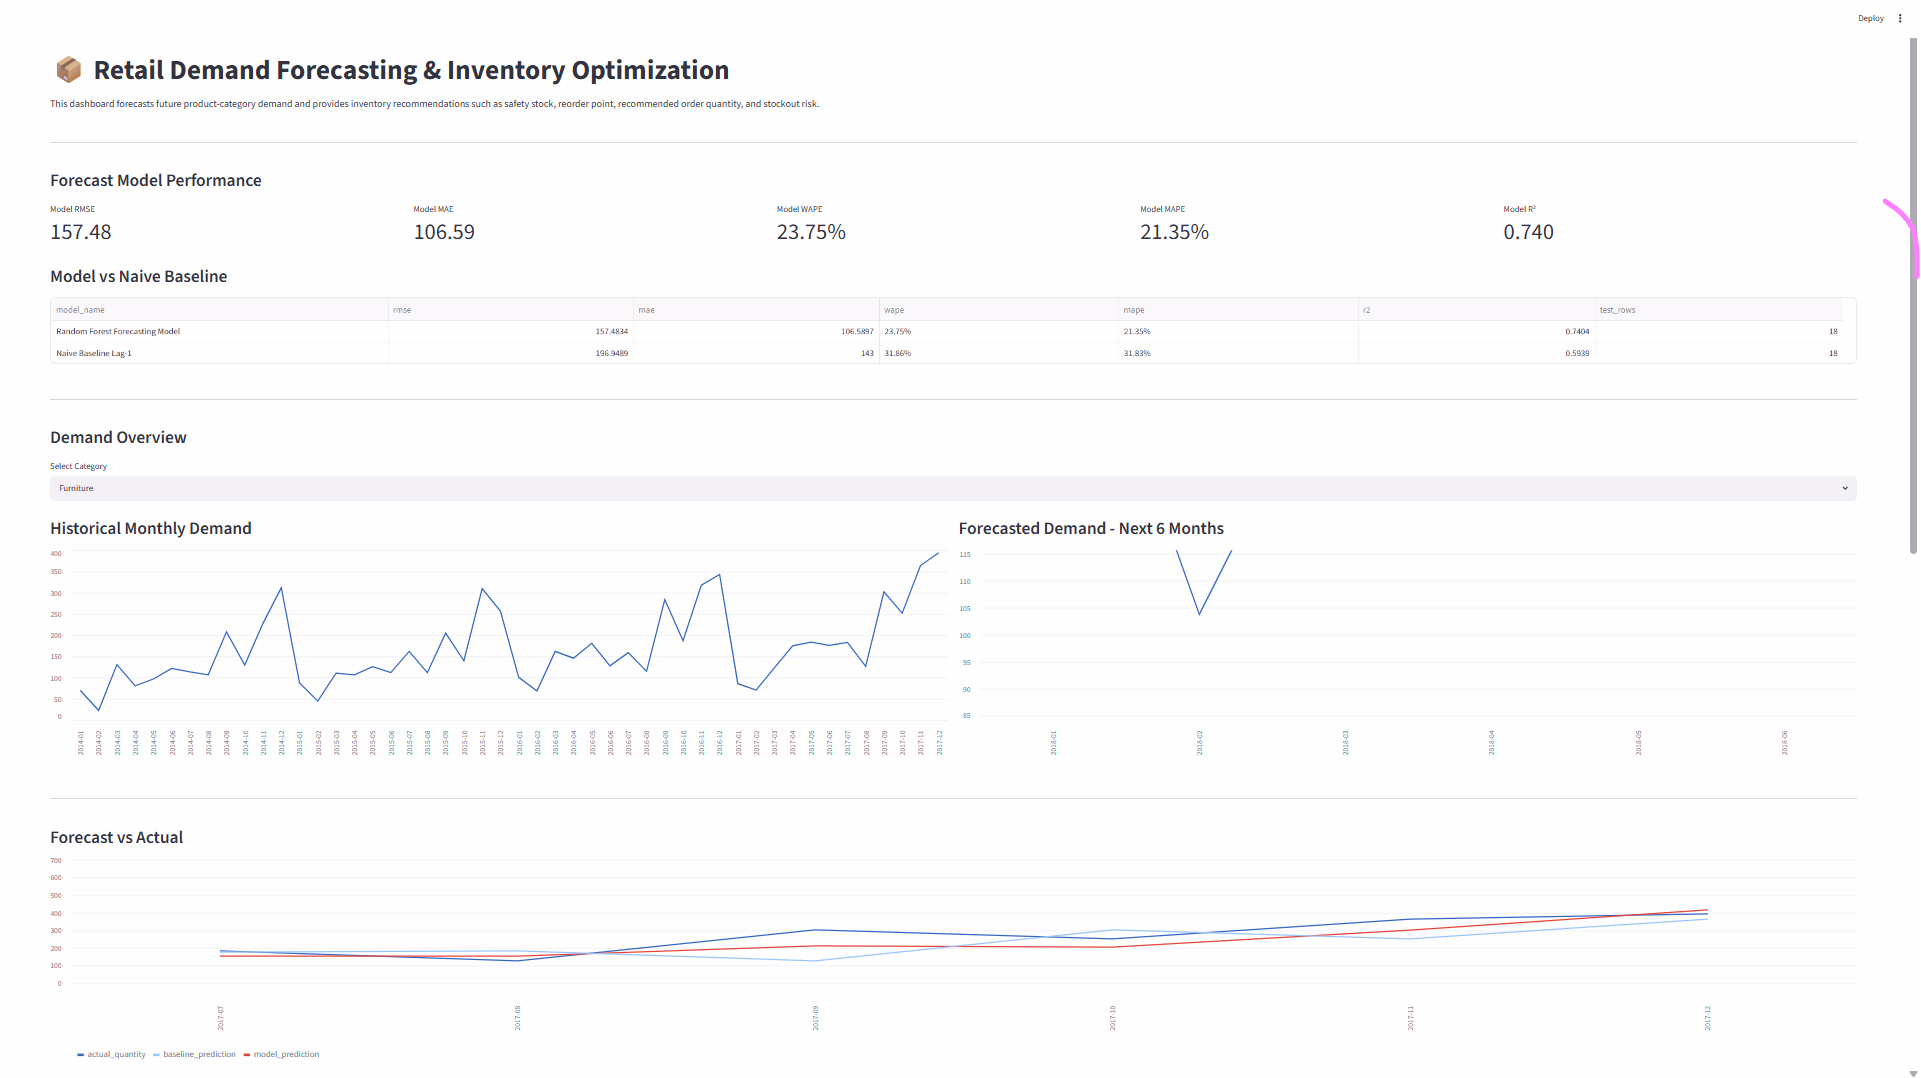
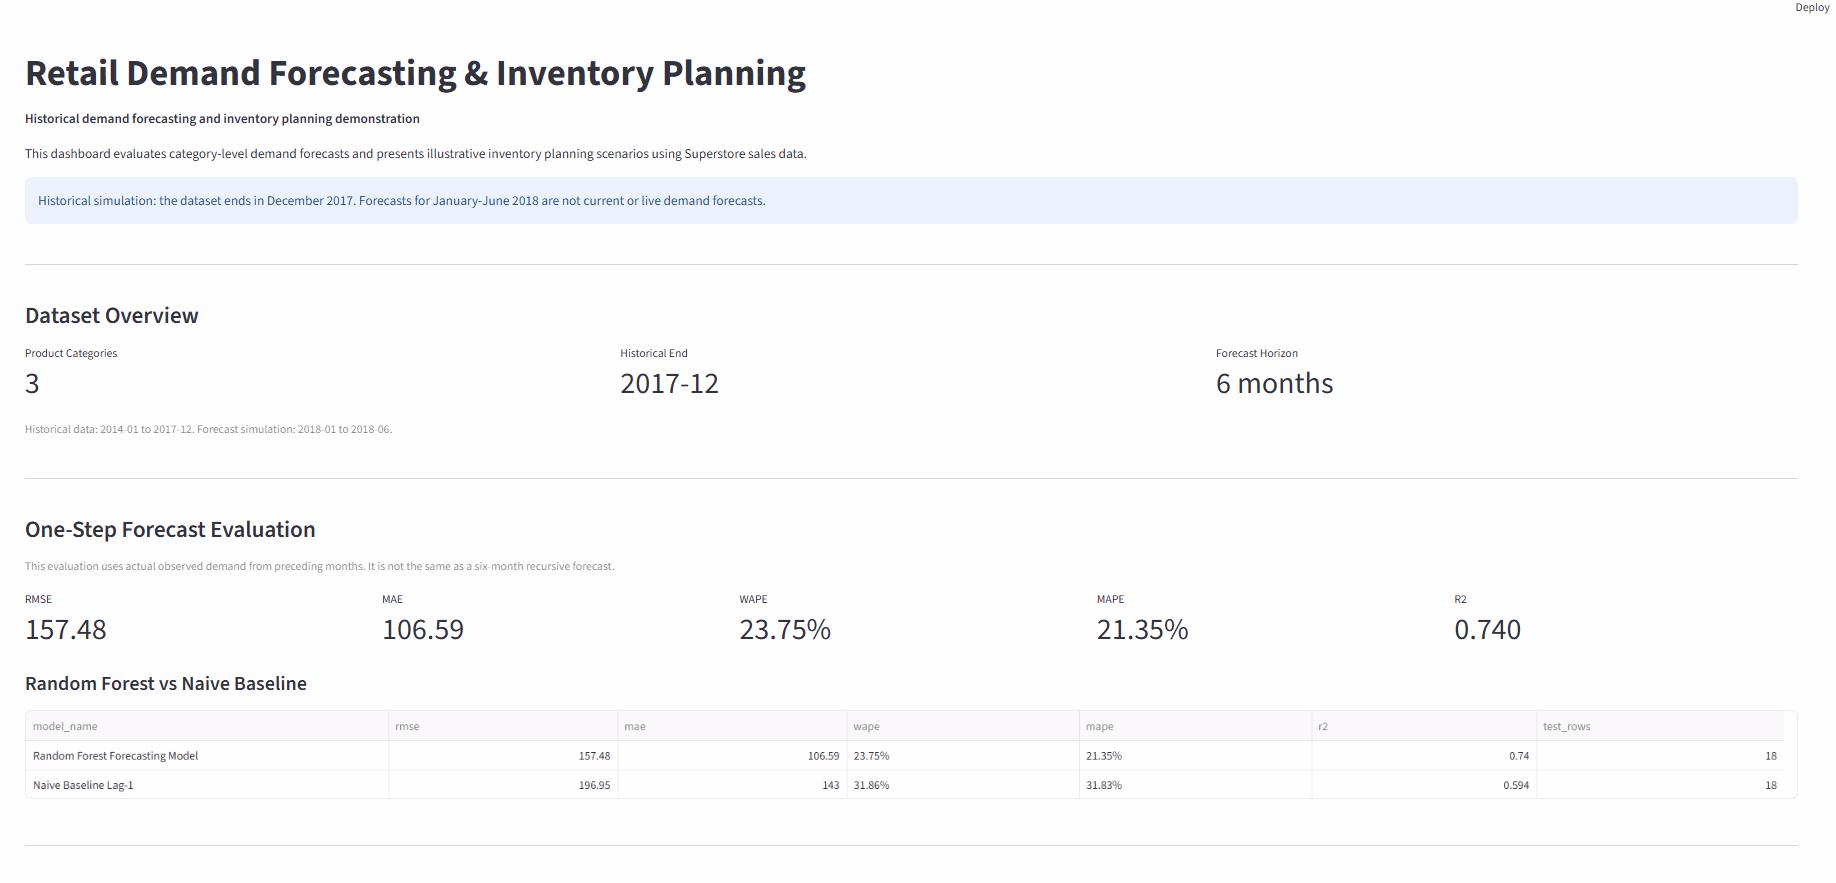
Update dashboard screenshots and README visuals

diff --git a/README.md b/README.md
@@ -1,4 +1,3 @@
-
 # Retail Demand Forecasting & Inventory Planning
 
 An end-to-end Python data science project that forecasts **monthly retail demand by product category**, evaluates **multi-step forecasts without future-target leakage**, and translates forecasts into **illustrative inventory-planning scenarios**.
@@ -211,10 +210,27 @@ The Streamlit dashboard can be launched with:
 streamlit run app/streamlit_app.py
 ```
 
-Existing screenshots, if retained, should be refreshed if they show the old inventory numbers or outdated risk wording:
+### Dashboard screenshots
 
-- `screenshots/retail_dashboard_forecast_overview.png`
-- `screenshots/retail_dashboard_inventory_recommendations.png`
+These screenshots show the updated Streamlit dashboard using the historical Superstore simulation (not live demand forecasts).
+
+**1. Dashboard overview and one-step evaluation**
+
+![Dashboard overview and one-step forecasting metrics](screenshots/retail_dashboard_forecast_overview.png)
+
+**2. Recursive and rolling-origin model validation**
+
+![Six-month recursive backtesting and rolling-origin results](screenshots/retail_dashboard_model_validation.png)
+
+**3. Demand analysis and forecast-versus-actual charts**
+
+![Category-level historical demand and forecast evaluation](screenshots/retail_dashboard_demand_charts.png)
+
+**4. Inventory planning with clearly labeled illustrative stock**
+
+![Inventory planning scenario and disclaimer about assumed stock](screenshots/retail_dashboard_inventory_recommendations.png)
+
+The inventory illustration uses **assumed stock**, not an observed warehouse balance. The heuristic risk labels are not calibrated stockout probabilities.
 
 ## Reproduce the results (Windows)
 
